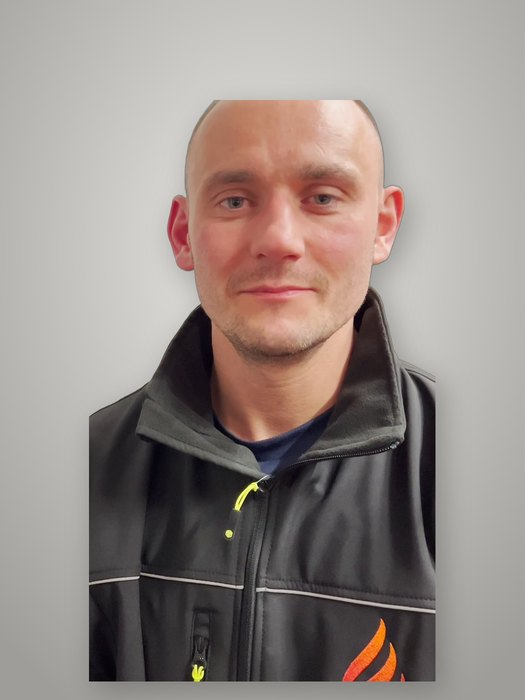
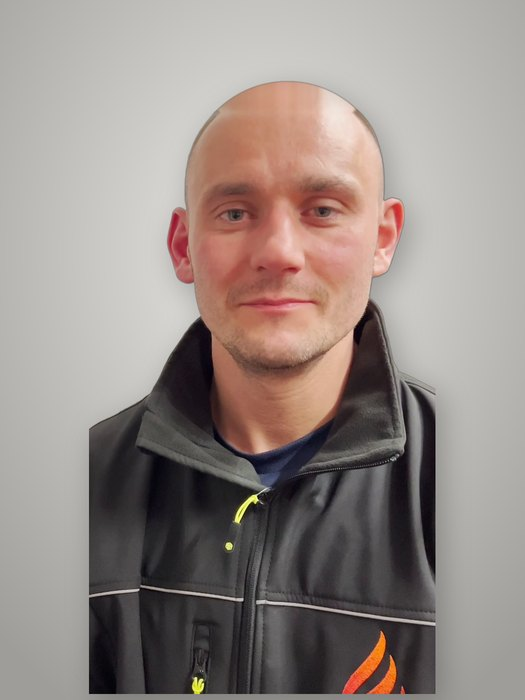
The Way In: Unit 19 clearer with the whole sign kept in frame at every width; the top of Billy's head rebuilt, since the original photograph cuts it off
Claude-Session: https://claude.ai/code/session_01CuB6we9SgcpshYv4GnJKyd

diff --git a/sites/thewayin/public/index.html b/sites/thewayin/public/index.html
@@ -804,7 +804,9 @@ footer .ft-legal-in{margin-top:16px;font-family:var(--mono);font-size:10.5px;let
 /* Unit 19 fills the hero edge to edge: the full width of the photograph, no extra zoom, the sign and door kept in view */
 .hero .ph{inset:0}
 .hero .ph img.bg{display:none}
-.hero .ph img.fg{object-fit:cover;object-position:50% 56%;transform:none!important}
+.hero .ph img.fg{object-fit:cover;object-position:50% 30%;transform:none!important;filter:grayscale(.25) brightness(.62) contrast(1.05)}
+.hero.open .ph img.fg{filter:grayscale(0) brightness(.92) contrast(1.06)}
+.hero .ph::after{background:linear-gradient(180deg,rgba(17,17,17,.28),rgba(17,17,17,.06) 35%,rgba(17,17,17,.9))}
 .plate .badge{min-height:0;grid-template-rows:100px auto;align-items:end;align-content:start;justify-items:start;gap:12px}
 .plate .badge img,.plate .badge img.tl,.plate .badge img.pl,.plate .badge img.nbc,.plate .badge img.jcp{width:auto;height:100px;max-width:100%;object-fit:contain;object-position:left bottom;margin:0;border-radius:0;align-self:end}
 .plate .badge img.jcp{border-radius:10px}

diff --git a/staff/index.html b/staff/index.html
@@ -803,7 +803,9 @@ footer .ft-legal-in{margin-top:16px;font-family:var(--mono);font-size:10.5px;let
 /* Unit 19 fills the hero edge to edge: the full width of the photograph, no extra zoom, the sign and door kept in view */
 .hero .ph{inset:0}
 .hero .ph img.bg{display:none}
-.hero .ph img.fg{object-fit:cover;object-position:50% 56%;transform:none!important}
+.hero .ph img.fg{object-fit:cover;object-position:50% 30%;transform:none!important;filter:grayscale(.25) brightness(.62) contrast(1.05)}
+.hero.open .ph img.fg{filter:grayscale(0) brightness(.92) contrast(1.06)}
+.hero .ph::after{background:linear-gradient(180deg,rgba(17,17,17,.28),rgba(17,17,17,.06) 35%,rgba(17,17,17,.9))}
 .plate .badge{min-height:0;grid-template-rows:100px auto;align-items:end;align-content:start;justify-items:start;gap:12px}
 .plate .badge img,.plate .badge img.tl,.plate .badge img.pl,.plate .badge img.nbc,.plate .badge img.jcp{width:auto;height:100px;max-width:100%;object-fit:contain;object-position:left bottom;margin:0;border-radius:0;align-self:end}
 .plate .badge img.jcp{border-radius:10px}
